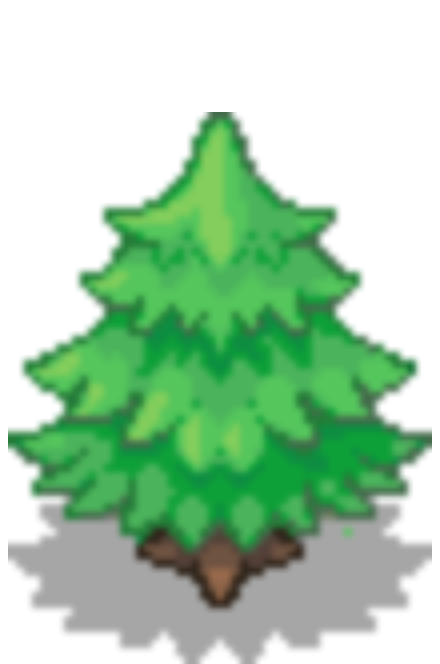
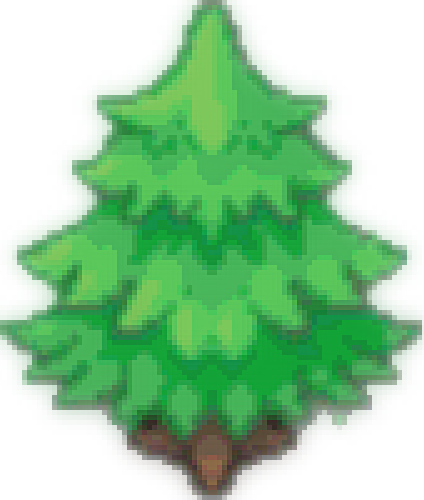
Fixing up collisions

diff --git a/src/Game.ts b/src/Game.ts
@@ -1,7 +1,7 @@
 import {Camera, Coordinate} from "./interfaces";
 import {Curve, Hill, Length, Track} from "./Track";
 import {Renderer, spriteScale} from "./Renderer";
-import {layer1, layer2, layer3, pineTree, player, sky} from "./Assets";
+import {layer1, layer2, layer3, log, pineTree, player, sky} from "./Assets";
 
 enum Colors {
     RoadDark = '#888688',
@@ -215,12 +215,12 @@ export class Game {
             // get the player sprite bounds
             const spriteWidth = sprite.image.width * spriteScale;
 
-            if(overlap(this.position.x, playerW, sprite.offset + spriteWidth / 2 * (sprite.offset > 0 ? 1 : -1), spriteWidth)) {
-                if(sprite.collider) {
-                    sprite.collider();
+            if (overlap(this.position.x, playerW, sprite.offset, spriteWidth)) {
+                if (sprite.collider) {
+                    sprite.collider.call(sprite);
                 }
 
-                if(sprite.isSolid) {
+                if (sprite.isSolid) {
                     this.speed = this.maxSpeed / 5;
                     this.position.z = playerSegment.p1.z - this.playerZ;
                 }
@@ -294,7 +294,7 @@ export class Game {
                 const spriteX = coords.p1.screen.x + (spriteScale * sprite.offset * roadWidth * this.width / 2);
                 const spriteY = coords.p1.screen.y;
 
-                this.renderer.sprite(this.width, this.height, roadWidth, sprite.image, spriteScale, spriteX, spriteY, (sprite.offset < 0 ? -1 : 0), -1, coords.clip);
+                this.renderer.sprite(this.width, this.height, roadWidth, sprite.image, spriteScale, spriteX, spriteY, -0.5, sprite.yOffset, coords.clip);
             });
         }
 
@@ -323,9 +323,9 @@ export class Game {
             let n = Math.floor(Math.random() * track.segments.length);
 
             let side = Math.random() * 100 < 50 ? -1 : 1;
-            let offset = 1 + Math.random() * 6;
+            let offset = 1.25 + Math.random() * 6;
 
-            track.addSprite(pineTree, n, side * offset);
+            track.addSprite(pineTree, n, side * offset, true, -0.95);
         }
 
         track.length = track.segments.length * segmentLength;

diff --git a/src/Track.ts b/src/Track.ts
@@ -1,7 +1,7 @@
 import {ColorPalette, Coordinate} from "./interfaces";
 
 export interface SpriteCollider {
-    (): void;
+    (this: Sprite): void;
 }
 
 export interface Sprite {
@@ -9,6 +9,7 @@ export interface Sprite {
     offset: number;
     collider?: SpriteCollider;
     isSolid: boolean;
+    yOffset: number;
 }
 
 export interface Segment {
@@ -120,11 +121,12 @@ export class Track {
         this.addRoad(num, num, num, curve);
     }
 
-    addSprite(image: any, index: number, offset: number, isSolid = true) {
+    addSprite(image: any, index: number, offset: number, isSolid = true, yOffset = -1) {
         this.segments[index].sprites.push({
             image,
             offset,
-            isSolid
+            isSolid,
+            yOffset
         });
     }
 }

diff --git a/src/Assets.ts b/src/Assets.ts
@@ -13,3 +13,4 @@ export const layer2 = importAsset(require('./assets/layer_2.png'));
 export const layer3 = importAsset(require('./assets/layer_3.png'));
 export const player = importAsset(require('./assets/player.png'));
 export const pineTree = importAsset(require('./assets/pine-tree.png'));
+export const log = importAsset(require('./assets/log.png'));
